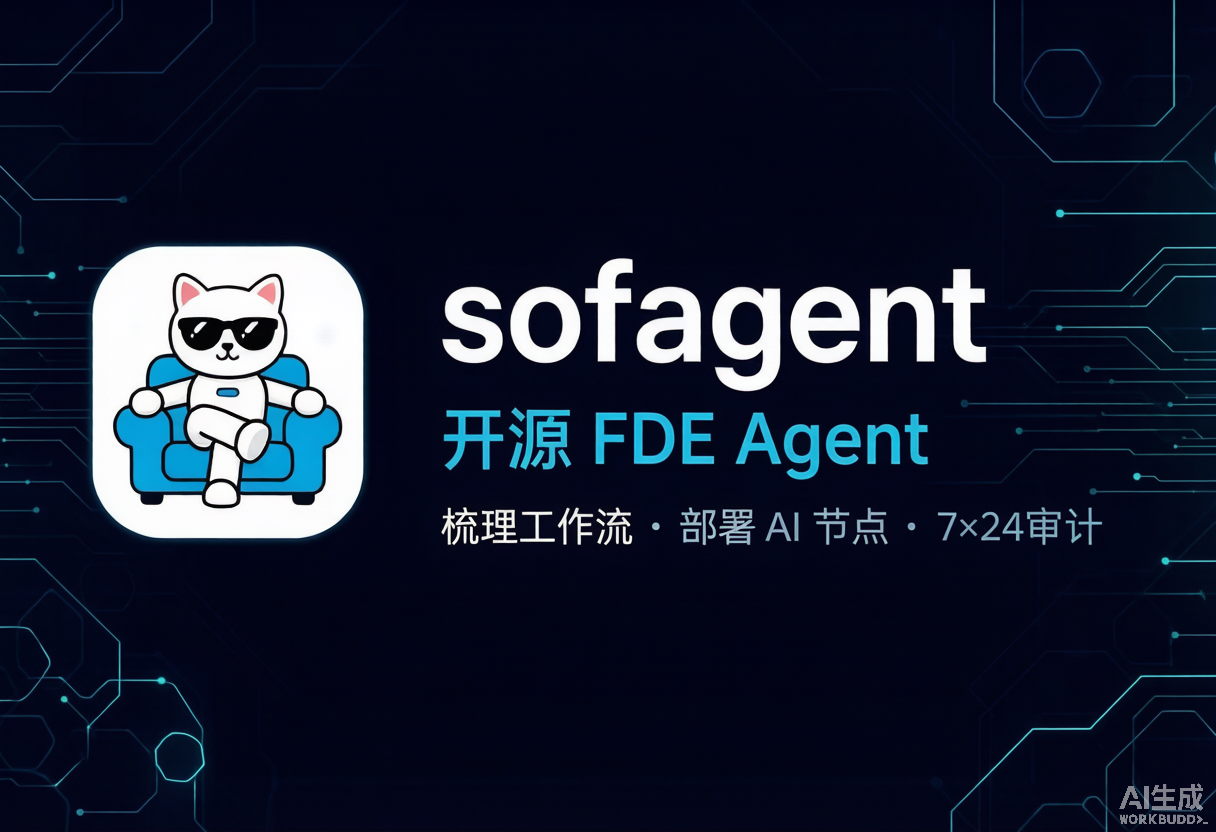
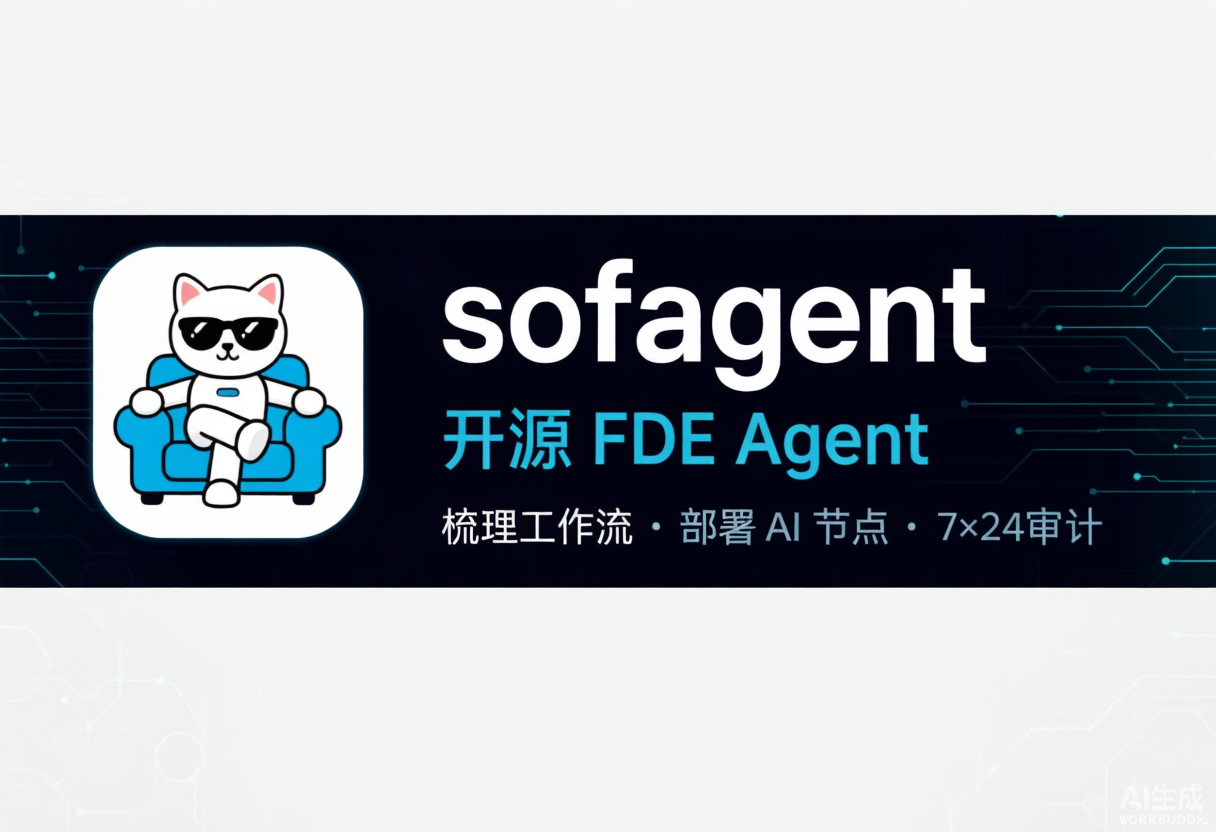
chore(hygiene): v1.4.0 前置卫生基线修复
- .gitignore: 补 FORGE/runs/ 防 loop 产物误收（backend-ab-v1.3.9.md 已跟踪保留）
- audit: --help 补 -y（npx 新手不再卡确认提示）；build + 857 测试全绿
- rules: index.ts 自述 5→21 公开符号 + Last revised 标注
- public-api.mjs: 新增文档声称符号数校验（根治 1449 漂移类问题）
- 文档 1449→1440 全仓 9 处对齐 baseline 实测
- 排 v1.3.9 悬空 6 处改写为移排 v1.4.7（G7 数据主权）
- CONTRIBUTING: 删 cp -r sofagent/ 残留，引用 releasing.md 十二阶段
- HANDBOOK: 根目录 .md 计数 6→8（补 AGENTS.md/GEMINI.md）
- ARCHITECTURE: 补约束层七维度节 + API 分级边界决策节
- README 双语: 企业警示/100+ 数据源/8+2 明细/agent-shield 呈现/三入口访问模型/badges 注释
- PHILOSOPHY: 补进化边界注（Dream Cycle 重启即丢）
- SECURITY: CI 示例补单 commit 仓库边界说明
- banner.png: 去 AI 生成工具水印（视觉复核待用户确认）

来源：fresh-eyes 16 视角独立审查 + V1.4.0-bugfix-prompt 交叉检查

diff --git a/engine/audit/src/index.ts b/engine/audit/src/index.ts
@@ -277,7 +277,7 @@ function parseArgs(argv: string[]): Args {
       console.log('快速开始:');
       console.log('  安装    npm install -g @sofagent/audit && sofagent-audit --init');
       console.log('  试用    sofagent-audit --diff HEAD~1..HEAD');
-      console.log('  npx     npx -p @sofagent/audit sofagent-audit --init');
+      console.log('  npx     npx -y -p @sofagent/audit sofagent-audit --init');
       console.log('命令:');
       console.log('  sofagent-audit --diff <range> [--task <desc>]   审计 git diff');
       console.log('  sofagent-audit --init                           一键初始化（配置+hook+冒烟）');

diff --git a/engine/rules/src/index.ts b/engine/rules/src/index.ts
@@ -6,7 +6,8 @@
 // ────────────────────────────────────────────────────────
 // ============================================================
 // index.ts · @sofagent/rules barrel export
-// v1.3.9：只导出 5 个公开符号，内部实现不外露
+// v1.3.9：导出 21 个公开符号（以 `node tools/check/public-api.mjs` AST 解析为准），内部实现不外露
+// Last revised: v1.3.9
 // ============================================================
 
 /* @public */ export { RulesEngine } from './engine';

diff --git a/docs/ROADMAP.md b/docs/ROADMAP.md
@@ -7,7 +7,7 @@
 
 ## 现在在哪：v1.3.9（已交付）
 
-> **v1.3.9 已于 2026-08-21 交付**——官方 AST 规则引擎（sofagent-ruleset-ast 含 ASI01/ASI04）+ meta-harness 多 harness 统一编排（DSH 形态对齐）+ AI 工作明细数据层（worklog + worklog_query MCP）+ API 分级 @public/@internal（1449 符号 + CI 门禁）+ FORGE driver 切 DSH（显式后端选择 + CLI 桥接 + bash 全权限）+ MLflow agent 评估 + Agentic Browser + 跨平台适配器（Cursor/Codex/Gemini）+ tools/ 物理分子目录 + ATTRIBUTION 归因引擎 + Dream Sandbox 沙盒审计 + >5MB diff 缝隙修复 + FORGE driver 进程守护（daemon + watcher）。详见 [v1.3.9 开发日志](./changelog/v1.3/v1.3.9.md)。
+> **v1.3.9 已于 2026-08-21 交付**——官方 AST 规则引擎（sofagent-ruleset-ast 含 ASI01/ASI04）+ meta-harness 多 harness 统一编排（DSH 形态对齐）+ AI 工作明细数据层（worklog + worklog_query MCP）+ API 分级 @public/@internal（1440 符号 + CI 门禁）+ FORGE driver 切 DSH（显式后端选择 + CLI 桥接 + bash 全权限）+ MLflow agent 评估 + Agentic Browser + 跨平台适配器（Cursor/Codex/Gemini）+ tools/ 物理分子目录 + ATTRIBUTION 归因引擎 + Dream Sandbox 沙盒审计 + >5MB diff 缝隙修复 + FORGE driver 进程守护（daemon + watcher）。详见 [v1.3.9 开发日志](./changelog/v1.3/v1.3.9.md)。
 >
 > **下一版 v1.4.0（规划中）**：Web 工作明细页 + 成本审计（超支告警 + `cost_query` MCP）+ DSH 反向插件家族（cordis-plugin-* 九件套）。详见下方「版本规划」表。
 >
@@ -27,7 +27,7 @@
 
 | 版本 | 核心交付 |
 |------|------|
-| **v1.3.9** | 🔍 官方 AST 规则引擎（sofagent-ruleset-ast 含 ASI01/ASI04 · 8+2 规则）+ 🧩 meta-harness 多 harness 统一编排（DSH 形态对齐）+ 📊 AI 工作明细数据层（worklog + worklog_query MCP）+ 🔬 API 分级 @public/@internal（1449 符号 + CI 门禁）+ ⚙ FORGE driver 切 DSH（显式后端选择 + CLI 桥接 + bash 全权限）+ 📈 MLflow agent 评估（13 指标 + LLM-as-Judge）+ 🌐 Agentic Browser（4 工具 + 视觉降级）+ 🧭 跨平台适配器（Cursor/Codex/Gemini CLI）+ 🗂 tools/ 物理分子目录 + 🏷 ATTRIBUTION 归因引擎 + 🏖 Dream Sandbox 沙盒审计 + 🩹 >5MB diff 缝隙修复（spill 落盘）+ 🔄 FORGE driver 进程守护（daemon + watcher）· 阶段五~八全流程（15 acceptance 场景补齐 + release-gate 三跑 PASS） |
+| **v1.3.9** | 🔍 官方 AST 规则引擎（sofagent-ruleset-ast 含 ASI01/ASI04 · 8+2 规则）+ 🧩 meta-harness 多 harness 统一编排（DSH 形态对齐）+ 📊 AI 工作明细数据层（worklog + worklog_query MCP）+ 🔬 API 分级 @public/@internal（1440 符号 + CI 门禁）+ ⚙ FORGE driver 切 DSH（显式后端选择 + CLI 桥接 + bash 全权限）+ 📈 MLflow agent 评估（13 指标 + LLM-as-Judge）+ 🌐 Agentic Browser（4 工具 + 视觉降级）+ 🧭 跨平台适配器（Cursor/Codex/Gemini CLI）+ 🗂 tools/ 物理分子目录 + 🏷 ATTRIBUTION 归因引擎 + 🏖 Dream Sandbox 沙盒审计 + 🩹 >5MB diff 缝隙修复（spill 落盘）+ 🔄 FORGE driver 进程守护（daemon + watcher）· 阶段五~八全流程（15 acceptance 场景补齐 + release-gate 三跑 PASS） |
 | **v1.3.8** | 🛡 代理网关硬边界（唯一出入口 + 风险分级 + 权限单调守卫 + HITL 审批队列激活）+ 🔐 数据静态加密（纯 TS AES-256-GCM + 密钥指纹强制备份）+ ⏸ Durable Execution L3（WAL 三态恢复 + undo 三档）+ 🤖 异步长任务自治（cron 三档糖 + 依赖图 + 死循环检测）+ ⚙ FORGE driver 保活三件套（pm2 / resume / liveness）+ 🧩 SDK sandbox:true 启用（三层沙箱）+ 🔻 release-gate 瘦身（--judgment-only + F 循环 FAIL 即停）+ 📊 fresh-eyes 成本重构（usage.jsonl + B 侧复核）+ 📸 快照写路径加固（revert 原子化）· bugfix 四 P0（A1 后缀绕过 / A2 FFFD / 安装链 / 声称断裂） |
 | **v1.3.7** | 🏰 SubAgent 完整沙箱（虚拟 FS / 网络白名单 / 工具中介 / 虚拟 key / 独立进程 / A-B 双跑）+ 🔐 场景驱动权限（身份→场景→风险→放行，fail-closed）+ 🛡 AgentShield 五类扫描（MCP 画像 / Hook 注入 / 配置审查 / 密钥增强 / Shadow AI 发现）+ 🏥 行业 overlay 四套（fintech/medical/government/ai）+ ⚡ 断路器行为监控（ASI08 熔断 + ASI10 隔离）+ 🌳 ontology 生命周期（branch/trunk + migrateToTrunk 审阅门 + OKF 三件套）+ ⚙ FORGE 审查循环自适应并发 + 🔌 memory-sync 路径通用化 + 26 项独立审查 bugfix |
 | **v1.3.6** | 🔌 引擎接口外化完整版（模型层接入前置）：📥 三个数据接口（Workflow 标准格式 + 运行容器 + merge_criteria/approver 审阅协议字段 / Ontology 标准 Schema 注册 D1-D5 留痕 / 模型注册 + 灰度切换全流程审计 + 强制人审）+ 🧩 SubAgent 托管 SDK（harness.wrap 双形态兼容）+ 🏋 训练协议三约定 + 预算控制（自 v1.4.1 前移）+ 🧭 路由决策可解释性（EndpointProfile + route-policy + routeReason 结构化理由链）+ ✅ 机器可判定验收（define_acceptance / check_acceptance，复用 Benchmark 判定引擎）+ 🛡 可靠性五件（FORGE worktree 隔离根治 run-07 / 双闸验证 postToolCall 副作用复查 / Agent 疲劳度检测 / 分级降级梯队 / decisions.jsonl 五分类完整版）+ 🌳 仓库森林叙事升级 · MCP 52→60 tools（8 个新 tool 全登记） |
@@ -86,14 +86,14 @@ sofagent 的定位正卡在这个转折点上：审计引擎（治理侧）+ Ont
 | 版本 | 状态 | 核心交付 | 日志 |
 |------|:--:|------|:--:|
 | **v1.3.6** | ✅ 已交付 | **🔌 引擎接口外化完整版（模型层接入前置 · 原 v2.0 前移）**：① Workflow 标准格式 + 运行容器（JSON Schema + MCP `workflow_submit`；**+ 审阅协议字段 `merge_criteria`/`approver`——workflow 从「步骤列表」升级为「变更提案的审阅协议」，审计引擎即 merge_criteria 执行器，GitHub 式协作底座，2026-08-16 新增**）② Ontology 注册接口（MCP `ontology_import` + D1-D5 审计）③ **SubAgent 托管 SDK**（`harness.wrap` 包装 LangGraph 自定义 Agent → 自动获得审计/审批/身份/Trace，createReactAgent + 纯 StateGraph 双形态——模型层 sub-agent 托管的落点）④ **模型注册 + 灰度切换**（`model_register` / `model_switch`，评测 → 注册 → 灰度 → 晋升全流程审计 + 强制人审；`source: 'local-path'` 扩展位预留，企业专属模型本地权重部署在 v1.4.1 填充；**通用模型路由不自研——企业挂第三方 model router（LiteLLM/OpenRouter），sofagent 只保留数据主权路由 + 注册/灰度/退役，2026-08-10 补充**）⑤ **训练协议三约定 + 训练预算控制（自 v1.4.1 前移，2026-08-12）**——双栈架构契约（Node 控制面 spawn Python + stdout JSON 流 + SIGINT 控制）+ 成本透明（超预算暂停 + 人审），让企业专属模型早期试点客户更早接入 ⑥ **路由决策可解释性（role-model 启发，2026-08-13 新增）**——补 Profiles 半个（端点能力画像）+ Policy 半个（偏好/预算/决胜规则）+ routeReason 结构化决策字段，**不自研路由器只补决策可审计性** ⑦ **运维闭环增强四件（自 v1.3.5 移入 2026-08-15：双闸验证 postToolCall 副作用复查 / Agent 疲劳度检测 / 分级降级梯队 full→rules-only→minimal→safe-stop / decisions.jsonl 完整版）** + **DSH 正向执行后端补全（2026-08-14 新增）**——v1.3.4 已交付接口骨架 + 版本守卫（rc 拦截），本版补全：`runCordisAgent()` 对照 @deepseek-ai/dsh 正式版 Cordis API 重写 + `dag-runner`/`composer`/`loop/nodes`/`node-executor` 剩余调用点迁移到 ExecutionBackend + 正式版发布后版本守卫放开（**契约依据已就绪：DSH 官方 cordis-tutorial 七章已发布——apply(ctx)/事件域/工具流水线/插件三形态，重写不再猜测 API；工具格式转换对照官方 ToolDefinition 三段式**，2026-08-15 教程全量蒸馏确认；**+ Trajectory 信号采集 PoC 与节点级审计可行性实测**——订阅事件流落 JSON 验证 reward 样本格式（商业模型层 B' 路径起点）+ 24 条规则逐条判定节点链适配性，产出 v1.4.0 plugin 节点级审计交付范围依据，2026-08-15 补充；**+ 验收 MCP tool 先行版（`define_acceptance` / `check_acceptance`——复用 Benchmark 判定引擎，任何 MCP 宿主可调，DSH 经 v1.3.5 互通即得软约束验收，v1.4.0 plugin 再硬化，收敛鸿沟直接解，2026-08-16 补充）** + **双后端镜像验证（DSH 后端跑通后同一 workflow 在 LangGraph / DSH 双后端执行，Trajectory 过程视角 + git diff 结果视角对比一致 = ExecutionBackend 抽象正确性实证，2026-08-16 补充）**）。**依赖：DSH 正式版发布（当前 rc.6）**——rc 期间版本守卫继续拦截，不阻塞 v1.3.6 其他交付项 ——**训练语料导出三件套已移至 v1.4.1 训练引擎**（2026-08-10 决策已定：训练相关内容统一从 v1.4.x 开始） + **🔧 FORGE 隔离加固（2026-08-16 新增 · 四件：fresh-eyes/release-gate 双 driver git worktree 隔离 + worker-alive 戳 + 启动前独占窗口检查 + LEDGER 中止归档 SOP——run-07 两次进程死亡与 worker 测试残留污染主仓的直接修复，四件全做；其中 worker-alive 戳/独占窗口检查/LEDGER SOP 三件已落地，本版实际开发 = worktree 隔离 + worker-alive 戳 release-gate 侧镜像补全）** | [日志](./changelog/v1.3/v1.3.6.md) |
-| **v1.4.0** | 📋 规划中 | **📊 Web 工作明细页 + 💰 成本审计 + 🔌 DSH 反向插件（企业 AI 工作记录视图 · 版本号重新启用）**：`dashboard.html` 加「工作明细」区块（按 Agent/按 Workflow/按周 + 人工介入记录，读 v1.3.9 落盘的 `worklog.json`，降级示例对齐现有模式）+ **成本审计维度**（WARN only 不拦截——超支告警 + `cost_query` MCP tool + COST DecisionKind，ccteam 启发；v1.3.9 worklog 已采集成本数据，本版补"超支判定 + 告警"这把刀）+ **DSH 反向插件适配（plugin 家族 · 2026-08-16 单点改家族）**（把 sofagent @public API 包装成**一族独立 Cordis 插件**——`cordis-plugin-audit`（审阅门：机器审阅 24 规则 + 节点级审计）/ `cordis-plugin-rollback`（剪枝：effect disposer）/ `cordis-plugin-inject`（约束：apply(ctx) 注入四层加载链）/ `cordis-plugin-evolve`（进化：think.md 反思 + Dream Cycle 蒸馏 + skillopt 优化）/ `cordis-plugin-ontology`（地图：共享语义底座）/ `cordis-plugin-commons`（公地：能力五环，复用 v1.3.4 六能力公地 tool，v1.3.6 起 market_* 更名 commons_*）/ `cordis-plugin-gate`（合并标准：turn-stopping 硬门禁）/ `cordis-plugin-daemon`（养护：7×24 巡检 + 健康监测）/ `cordis-plugin-fde`（攻面：fde_interview/classify/quantify 三 tool），每个插件干一件事、可独立安装渐进采用——攻守一体 + 四能力闭环 + 仓库森林四要素 + 公地生态层 = 一个 FDE；协作底座是涌现不是构建，plugin 挂进 DSH 后生态自动获得「仓库森林」运转机制——依赖链：v1.3.6 ExecutionBackend 接口 → v1.3.9 API 分级 @public → 本版插件包装；DSH 正式版已发布的 Cordis 插件协议对照，2026-08-14 明确；**seam 选型已按官方文档精确化：审计挂 `tools/result`（官方钦定审计入口，观察不可变权威结果）+ `tools/pre-execute`（拒绝/放行策略）+ `fs/write-intent`（文件门禁）；审批留痕走 log-only 会话事件不进模型 surface；仓库打 `dsh-plugin` GitHub topic 占生态位；**插件含节点级审计 v1**——适配节点链的规则子集（范围由 v1.3.6 实测结论定）扩展为 tool 调用级归因 + pre-execute 拒绝留痕，2026-08-15 落位；**审批应答者**——sofagent 审批引擎注册进 DSH approval 应答者链（企业一个审批队列管所有 Agent）；**回溯 Cordis 语义化**——git snapshot 实现为 effect disposer（卸载即逆序撤销）；**验收硬门禁——挂 `agent/turn-stopping` 拦截关轮（验收不过不放行 + 失败原因注入 + maxGoalRounds 防刷轮），v1.3.6 软约束 tool 的 plugin 硬化，收敛鸿沟的工程解**，2026-08-15/16 补充）——Dashboard Web 前端已就绪（dashboard.html 6 页 + serve-dashboard.mjs），v1.3.9 已承载 AST + meta 两个大交付，Web 页 + 成本审计 + DSH 插件同版交付 | [日志](./changelog/v1.4/v1.4.0.md) |
+| **v1.4.0** | 📋 规划中 | **📊 Web 工作明细页 + 💰 成本审计 + 🔌 DSH 反向插件（企业 AI 工作记录视图 · 版本号重新启用）**：`dashboard.html` 加「工作明细」区块（按 Agent/按 Workflow/按周 + 人工介入记录，读 v1.3.9 落盘的 `worklog.json`，降级示例对齐现有模式）+ **成本审计维度**（WARN only 不拦截——超支告警 + `cost_query` MCP tool + COST DecisionKind，ccteam 启发；v1.3.9 worklog 已采集成本数据，本版补"超支判定 + 告警"这把刀）+ **DSH 反向插件适配（plugin 家族 · 2026-08-16 单点改家族）**（把 sofagent @public API 包装成**一族独立 Cordis 插件**——`cordis-plugin-audit`（审阅门：机器审阅 24 规则 + 节点级审计）/ `cordis-plugin-rollback`（剪枝：effect disposer）/ `cordis-plugin-inject`（约束：apply(ctx) 注入四层加载链）/ `cordis-plugin-evolve`（进化：think.md 反思 + Dream Cycle 蒸馏 + skillopt 优化）/ `cordis-plugin-ontology`（地图：共享语义底座）/ `cordis-plugin-commons`（公地：能力五环，复用 v1.3.4 六能力公地 tool，v1.3.6 起 market_* 更名 commons_*）/ `cordis-plugin-gate`（合并标准：turn-stopping 硬门禁）/ `cordis-plugin-daemon`（养护：7×24 巡检 + 健康监测）/ `cordis-plugin-fde`（攻面：fde_interview/classify/quantify/derive/distill/deploy 六 tool），每个插件干一件事、可独立安装渐进采用——攻守一体 + 四能力闭环 + 仓库森林四要素 + 公地生态层 = 一个 FDE；协作底座是涌现不是构建，plugin 挂进 DSH 后生态自动获得「仓库森林」运转机制——依赖链：v1.3.6 ExecutionBackend 接口 → v1.3.9 API 分级 @public → 本版插件包装；DSH 正式版已发布的 Cordis 插件协议对照，2026-08-14 明确；**seam 选型已按官方文档精确化：审计挂 `tools/result`（官方钦定审计入口，观察不可变权威结果）+ `tools/pre-execute`（拒绝/放行策略）+ `fs/write-intent`（文件门禁）；审批留痕走 log-only 会话事件不进模型 surface；仓库打 `dsh-plugin` GitHub topic 占生态位；**插件含节点级审计 v1**——适配节点链的规则子集（范围由 v1.3.6 实测结论定）扩展为 tool 调用级归因 + pre-execute 拒绝留痕，2026-08-15 落位；**审批应答者**——sofagent 审批引擎注册进 DSH approval 应答者链（企业一个审批队列管所有 Agent）；**回溯 Cordis 语义化**——git snapshot 实现为 effect disposer（卸载即逆序撤销）；**验收硬门禁——挂 `agent/turn-stopping` 拦截关轮（验收不过不放行 + 失败原因注入 + maxGoalRounds 防刷轮），v1.3.6 软约束 tool 的 plugin 硬化，收敛鸿沟的工程解**，2026-08-15/16 补充）——Dashboard Web 前端已就绪（dashboard.html 6 页 + serve-dashboard.mjs），v1.3.9 已承载 AST + meta 两个大交付，Web 页 + 成本审计 + DSH 插件同版交付 | [日志](./changelog/v1.4/v1.4.0.md) |
 | **v1.4.1** | 📋 规划中 | **🚀 训练引擎 · 地基（编排 + 审计 + 隔离 + 指纹 + 签名 + 回收 + 恢复 + 安全）**：① **train-job 编排层** ② **train_job 审计** ③ **训练隔离边界**（enterpriseId 全链路）④ **训练可复现指纹**（checkpoint 续跑版本锁定）⑤ **训练产物完整性校验**（权重 HMAC）⑥ **训练中断与资源回收**（心跳+孤儿巡检+GPU 泄漏检测）⑦ **引擎崩溃恢复**（假活任务清理+三选项恢复）⑧ **训练安全基线**（路径注入/沙箱自检/凭据脱敏+攻击面声明文档）——**训练协议三约定 + 训练预算控制已前移至 v1.3.6（2026-08-12）** | [日志](./changelog/v1.4/v1.4.1.md) |
 | **v1.4.2** | 📋 规划中 | **🚀 训练引擎 · 数据与评估（管道 + 版本 + eval + 环境 + dry-run + 报告）**：① **企业数据 → 训练集管道**（CSV/Excel/**DB/API** 多源异构接入 + instruction/偏好对构建 + 质量闸门 + 训练入口脱敏）② **训练集版本管理**（dataset_version，eval 引用版本可复现）③ **训练中 eval 闭环**（复用 v1.3.1 Benchmark，阈值外部化——机制开源/阈值外部化）④ **训练环境管理**（train env init + train doctor + **基座模型下载管理** + 环境版本清单）⑤ **训练 dry-run 与配置预检**（train dry-run：极小数据集跑通管线 + 显存预检 + 数据抽样检查——失败前预防，与 v1.4.3 diagnose 互补）⑥ **训练报告**（train report：客户可读交付物 + 量化四字段，绩效量化引擎输入） | [日志](./changelog/v1.4/v1.4.2.md) |
 | **v1.4.3** | 📋 规划中 | **🚀 训练引擎 · 运行与需求（监控 + 诊断 + 沙箱 + 推导 + 模板 + workflow + 可观测）**：① **训练监控与 GPU 队列**（train_status + **train_list** + 显存预算排队 + webhook + **Dashboard 训练区块 + 健康度指标落盘**）② **训练失败诊断**（OOM/数据/发散/框架/环境五类）③ **训练沙箱 + 设备打包**（扩展 v1.3.7 + 离线 + 设备封装前置）④ **训练需求推导 + 模板库**（`train analyze` + 场景模板）⑤ **后训练 workflow 模板**（七节点 FDE 载体 + 三 HITL） | [日志](./changelog/v1.4/v1.4.3.md) |
 | **v1.4.4** | 📋 规划中 | **🚀 训练引擎 · 信号与部署闭环（语料 + 权重 + 注册 + 对比）**：① **训练语料导出三件套**（规则 + GUIDE 方法论 + 样本四源 [decision-log/llm-calls/evaluation-log/runtime-audit] + Trace 轨迹 + 通用脱敏管线 + HMAC 签名 + 合规红线——含 human-fde 人工基准，从 v1.3.2/v1.3.6 归集）② **企业专属模型本地权重部署链路**（权重目录规范 + 本地加载 + 版本回滚，从 v1.3.6 归集）③ **训练产物 → 模型注册自动衔接**（train done + eval pass → model_register，闭环最后一步）④ **多基座对比训练**（train compare：同数据多基座并行 + ROI 排序，阶段 2 选型前置） | [日志](./changelog/v1.4/v1.4.4.md) |
 | **v1.4.5** | 📋 规划中 | **🚀 训练引擎 · 服务与持续（推理服务 + 持续后训练 + 合规扫描 + 交付包 + 归档 + quickstart · 生命周期补全）**：① **训练推理服务**（train serve + 健康检查 + model_switch 联动）② **持续后训练**（数据回流 + 阈值/定时/人工触发 + 回退保护）③ **训练数据合规扫描**（PII/敏感字段 + 合规闸门）④ **FDE 训练交付包**（配置+数据+eval 基线+运维手册+权重清单）⑤ **训练产物归档与保留策略**（train-retention + @weekly 归档 + 90 天销毁 + 空间预警）⑥ **训练引擎 Quickstart**（端到端示例文档 + 合成数据 + 最小 job.json） | [日志](./changelog/v1.4/v1.4.5.md) |
 | **v1.4.6** | 📋 规划中 | **🚀 训练引擎 · 分布式与云端（多卡 + 云 VM 执行面 · 规模化前置）**：① **多卡/分布式训练**（train multi：多卡/多机配置 + verl/DeepSpeed 集群 spawn + GPU 队列多卡拓扑感知 + 分布式失败诊断）② **云端 VM 执行面**（train cloud：Node 控制面本地 + Python 执行面云上——ssh/API 远程 spawn + 数据加密上传/训练后清理 + 云端成本入预算——「全托管」交付模式技术底座；⚠ 敏感数据不上公有云，走客户机房联合训练） | [日志](./changelog/v1.4/v1.4.6.md) |
-| **v1.4.7** | 📋 规划中 | **🔌 商业平台 平台接口版（商业产品层前置 · 2026-08-17 新增）**：承载 商业平台 平台接口规划 §9.1 中未覆盖项——**G2 能力缺口查询**（MCP `workflow_gaps`——读 workflow 状态找「缺人/缺能力的节点」，悬赏式 PR 的发现接口，依赖 v1.3.9 worklog + v1.3.7 ontology lifecycle）· **G4 绩效数据导出**（MCP `contribution_query`——读审计 + decision-log 算每人/每 workflow 贡献度，DKP 价值轨数据源，对齐 v1.4.5 FDE 训练交付包的量化四字段）· **G6 节点级可见性元数据**（workflow schema 加 `visibility` 字段 open/private/result-only——任务面/数据面分离，审阅门按此执行）· **G7 多租户抽象层 v0**（引擎数据路径 `data/<tenant>/` 命名空间——先做数据路径抽象，隔离策略随 SaaS 需要细化；动引擎内核，v1.4.6 云 VM 执行面后评估。**共享执行层隔离刚需 · 2026-08-20 强化**：社区私有化部署 DSH 实践（两篇，2026-08-19）验证「企业共享 Agent」是真实需求，且共同缺口 = 多账号/权限/数据隔离——G7 正是补「隔离」的引擎侧底座（数据路径抽象是第一步，按用户隔离工作区/知识库随后细化））· **workflow 烧进 USB**（FDE 交付物理载体 · 2026-08-19 新增：`create-usb-key` 产物清单扩展——烧入 workflow 定义 + 依赖 skill/tool 注册 + 节点配置，插上即是一个会跑企业具体业务流程的节点，与 商业平台 在线交付互补；依赖 fde_deploy v1.4.0 + DSH 执行后端，升级 v1.1.9「只烧引擎+知识」为「烧引擎+知识+workflow」）· **审计留痕双层（2026-08-22 排入 · Codex rollout-trace 启发）**——history.jsonl 读取端拆独立规约层（raw append-only 写路径不动），与审计存储 SQLite 迁移评估同批 | [日志](./changelog/v1.4/v1.4.7.md) |
+| **v1.4.7** | 📋 规划中 | **🔌 商业平台 平台接口版（商业产品层前置 · 2026-08-17 新增）**：承载 商业平台 平台接口规划 §9.1 中未覆盖项——**G2 能力缺口查询**（MCP `workflow_gaps`——读 workflow 状态找「缺人/缺能力的节点」，悬赏式 PR 的发现接口，依赖 v1.3.9 worklog + v1.3.7 ontology lifecycle）· **G4 绩效数据导出**（MCP `contribution_query`——读审计 + decision-log 算每人/每 workflow 贡献度，DKP 价值轨数据源，对齐 v1.4.5 FDE 训练交付包的量化四字段）· **G6 节点级可见性元数据**（workflow schema 加 `visibility` 字段 open/private/result-only——任务面/数据面分离，审阅门按此执行）· **G7 多租户抽象层 v0**（引擎数据路径 `data/<tenant>/` 命名空间——先做数据路径抽象，隔离策略随 SaaS 需要细化；动引擎内核，v1.4.6 云 VM 执行面后评估。**共享执行层隔离刚需 · 2026-08-20 强化**：社区私有化部署 DSH 实践（两篇，2026-08-19）验证「企业共享 Agent」是真实需求，且共同缺口 = 多账号/权限/数据隔离——G7 正是补「隔离」的引擎侧底座（数据路径抽象是第一步，按用户隔离工作区/知识库随后细化））· **workflow 烧进 USB**（FDE 交付物理载体 · 2026-08-19 新增：`create-usb-key` 产物清单扩展——烧入 workflow 定义 + 依赖 skill/tool 注册 + 节点配置，插上即是一个会跑企业具体业务流程的节点，与 商业平台 在线交付互补；依赖 fde_deploy v1.4.0 + DSH 执行后端，升级 v1.1.9「只烧引擎+知识」为「烧引擎+知识+workflow」）· **审计留痕双层（2026-08-22 排入 · Codex rollout-trace 启发）**——history.jsonl 读取端拆独立规约层（raw append-only 写路径不动），与审计存储 SQLite 迁移评估同批 · **静态加密全量接线 + 引擎侧 data-sovereignty repo-hash 隔离（2026-08-22 从 v1.3.9 未兑现项移排）**——forge-runs/checkpoint/model-registry 三目录 + task/logs + think.md 加密接线，复用 FORGE 方案补齐引擎侧 `data/audit/data-sovereignty/<repo-hash>/` 隔离（原排 v1.3.9 未交付，与 G7 数据主权主题同源，并入本版） | [日志](./changelog/v1.4/v1.4.7.md) |
 | **v1.4.8** | 📋 规划中 | **🔌 插件分发企业管控（2026-08-22 新增 · Codex marketplace 启发）**：插件来源白名单（Git URL / 主机模式 / 本地路径三类，对齐 Codex MarketplaceAllowedSource）+ 托管 hook 独裁模式（`allow_managed_hooks_only` 等价物，企业部署忽略用户自定义 hook 只跑 sofagent 托管审计 hook）——管控同时覆盖 ClawHub（OpenClaw plugin 家族）+ SkillHub（DSH plugin 家族），判断在安装侧生效。**依赖 v1.4.0 三 plugin 家族交付** | [日志](./changelog/v1.4/v1.4.8.md) |
 
 

diff --git a/README.en.md b/README.en.md
@@ -5,6 +5,7 @@
 <p align="center">
   <a href="https://github.com/KongFangXun/sofagent/actions/workflows/verify.yml"><img src="https://github.com/KongFangXun/sofagent/actions/workflows/verify.yml/badge.svg" alt="Verify" /></a>
   <a href="./LICENSE"><img src="https://img.shields.io/badge/License-MIT-brightgreen" alt="License: MIT" /></a>
+  <!-- ⚠ bump version: manually sync this badge version (Version-vX.Y.Z) -->
   <a href="./CHANGELOG.md"><img src="https://img.shields.io/badge/Version-v1.3.9-16B8F3" alt="Version" /></a>
 </p>
 
@@ -42,7 +43,7 @@ graph LR
 
 > ℹ The comparison dimensions are based on capability differences, not aimed at any specific product; general-purpose scanners/frameworks (pre-commit / gitleaks / detect-secrets, etc.) complement sofagent rather than oppose it.
 
-> ℹ **Honest boundary**: general-purpose secret scanners (gitleaks / detect-secrets) do **full-history scans** with broader pattern libraries (100+ patterns); sofagent auditing focuses on **hard evidence from the current diff + Agent behavior auditing** (out-of-scope/injection/privilege dimensions scanners don't cover). They complement rather than replace each other — for strict secret-compliance scenarios, use both.
+> ℹ **Honest boundary**: general-purpose secret scanners ([gitleaks](https://github.com/gitleaks/gitleaks) / detect-secrets) do **full-history scans** with broader pattern libraries ([gitleaks official pattern library, 100+ rules](https://github.com/gitleaks/gitleaks/tree/master/config)); sofagent auditing focuses on **hard evidence from the current diff + Agent behavior auditing** (out-of-scope/injection/privilege dimensions scanners don't cover). They complement rather than replace each other — for strict secret-compliance scenarios, use both.
 >
 > ⚠ **Honest boundary**: currently a single-machine, single-user design — multiple Agents share one knowledge base / audit history; multi-person / multi-department sharing requires tenant isolation (ROADMAP v1.4.7 G7). Task logs (task/logs) are written in plaintext, containing task summaries / code snippets / API response summaries / conversation summaries — static encryption currently covers the audit history main chain, not task/logs; read [SECURITY](./SECURITY.md) before enterprise deployment.
 
@@ -58,9 +59,12 @@ graph LR
 
 - 🔍 **Zero-setup audit** — `npx -y -p @sofagent/audit sofagent-audit`, audits your last commit in any git repo in seconds (measured on: Apple Silicon macOS, warm cache — ~1.1s per quick run, ~6.1s for a 50k-line diff; single-machine reference figures, not benchmarks; first npx download takes ~30s)
 - 🧱 **24 audit rules** (quick runs 17 by default out of the box; the full 24 = 17 default + 7 extensions enabled via config, requiring `--init` to install hooks and enter the full engine) — secret leaks, out-of-scope edits, injection defense, privilege red lines — judged on hard git diff evidence, violations blocked on the spot
+- 🛡 **AgentShield five-face config scanner** (since v1.3.7, deterministic static analysis · zero LLM self-eval) — statically scans five faces: MCP risk (mcp-risk) / hook injection (hook-injection) / Agent config (agent-config) / enhanced secrets (secret-enhanced) / shadow AI (shadow-ai), complementing the 24 git-diff rules (see [SECURITY](./SECURITY.md))
 - 🛡 **Automatic snapshot & rollback** — auto-archived after every audit, one-click restore to any snapshot
 
 ## Quick Start
+
+> ⚠ **Enterprise users read first** [LIMITATIONS §3](./docs/LIMITATIONS.md) — `config.yml` is **non-fail-closed by default** (rules can be bypassed by Agent tampering), and multi-tenant isolation is not yet landed. For strict-compliance scenarios use CI fallback + file-permission lock (`chmod 444 .sofagent/config.yml`); do not put the single-machine default config directly into production.
 
 **30 seconds, zero setup** — run an audit in any git repo (dev/testing scenarios; for strong-compliance scenarios read [LIMITATIONS §3](./docs/LIMITATIONS.md) first — plaintext storage and multi-tenant isolation are known limitations):
 
@@ -163,6 +167,14 @@ graph LR
 | **GitHub Action** | Auto-audit every PR, violations annotated on the diff lines | CI/CD | Set up once |
 | **install.sh full suite** | injection · audit · rollback · evolution + daemon inspection + dashboard — the Agent's complete constraint layer | **Enterprise device** (server/computer running the AI nodes) | FDE residency |
 
+**Access-model comparison** (same engine, three install granularities — pick by scenario):
+
+| Access model | Command | Lifecycle | Best for |
+|--------------|---------|-----------|----------|
+| npx temporary | `npx -y -p @sofagent/audit sofagent-audit` | use-and-go, downloaded each time | quick audit of any repo, one-off checks outside CI |
+| npm install (in-project) | `npm install @sofagent/audit` (project devDependency) | installed with project, version locked in package-lock | team projects with fixed deps, reproducible audits |
+| npm install -g (global) | `npm install -g @sofagent/audit` | globally available, install once call many | daily audit across local repos, daemon residency |
+
 sofagent supports composable rulesets (**rule marketplace**) — a built-in security ruleset plus community-published ruleset packages. With 24 audit rules built in (quick runs 17 by default, the 7 extensions enabled via config), loading extra rulesets extends audit coverage:
 
 **Rule marketplace**:
@@ -182,10 +194,10 @@ Community rulesets are published as `sofagent-ruleset-*` npm packages and loaded
 ## New in v1.3.9
 
 > 🔍 **v1.3.9 new capabilities** (official AST rule engine + meta-harness unified orchestration + AI worklog data layer + API tiering governance + FORGE on DSH + MLflow evaluation + Agentic Browser + cross-platform adapters + toolchain subdirectories + attribution/sandbox/daemon):
-> - **Official AST rule engine**: 🔍 `sofagent-ruleset-ast` semantic rule engine (ASI01 target hijacking + ASI04 supply-chain SBOM · 8+2 rule checks, same pipeline as the v1.2.9 plugin)
+> - **Official AST rule engine**: 🔍 `sofagent-ruleset-ast` semantic rule engine (8+2 rule checks = 8 general semantic rules "no dynamic code execution / hardcoded secrets / dynamic require / debugger / child_process shell control / SQL concatenation / http plaintext endpoint / empty catch" + 2 OWASP "ASI01 target hijacking + ASI04 supply-chain SBOM", same pipeline as the v1.2.9 plugin)
 > - **meta-harness unified orchestration**: 🧩 multi-harness policy enforcement at the infrastructure layer + cross-session collaboration (19 tests + DSH shape alignment)
 > - **AI worklog data layer**: 📊 `worklog` — by Agent / Workflow / week + human-intervention records (reuses audit + decision-log + LLM Trace, zero new data) + `worklog_query` MCP
-> - **API tiering governance**: 🔬 explicit `@public`/`@internal` tiers (1449 symbols) + CI gate baseline — breaking changes to `@internal` never affect adapters
+> - **API tiering governance**: 🔬 explicit `@public`/`@internal` tiers (1440 symbols) + CI gate baseline — breaking changes to `@internal` never affect adapters
 > - **FORGE driver on DSH**: ⚙ explicit backend selection (`SOFAGENT_FORCE_DSH` enable + CLI bridge + full bash permission) — execution backend switchable from LangGraph to DSH
 > - **MLflow agent evaluation**: 📈 13 metrics + LLM-as-Judge integration
 > - **Agentic Browser**: 🌐 4 tools (navigate/click/form/screenshot) + visual degradation fallback

diff --git a/docs/LIMITATIONS.md b/docs/LIMITATIONS.md
@@ -32,7 +32,7 @@
 | 1 | **单包测试需先 build**——monorepo 未 build 时单包 `npm test` 可能失败（依赖 dist/），需先 `npm run build --workspaces`。 | [四、成熟度与测试局限](#四成熟度与测试局限) |
 | 2 | **默认非 fail-closed**——config.yml 可被 Agent 篡改绕过审计规则。仅当 config 解析失败时走 safeDefaults（fail-closed 强制启用）。 | [三、安全与信任模型局限](#三安全与信任模型局限) |
 | 3 | **编排能力依赖 orchestrator 包 + 模型质量**——LangGraph createReactAgent 驱动，编排效果依赖模型质量。模型降级 → 编排降级。 | [五、审计与工程局限 → 编排引擎稳定性](#五审计与工程局限) |
-| 4 | **静态加密覆盖不全**——审计历史主链已加密（v1.3.8 交付，纯 TS AES-256-GCM），但 forge-runs/checkpoint/model-registry 三目录的加密接线排 v1.3.9，全量数据仍未全覆盖。 | [三、安全与信任模型局限 → 数据存储安全](#三安全与信任模型局限) |
+| 4 | **静态加密覆盖不全**——审计历史主链已加密（v1.3.8 交付，纯 TS AES-256-GCM），但 forge-runs/checkpoint/model-registry 三目录 + task/logs + think.md 的加密接线**未交付（原声称排 v1.3.9 未兑现），已移排 v1.4.7（G7 数据主权主题）**，全量数据仍未全覆盖。 | [三、安全与信任模型局限 → 数据存储安全](#三安全与信任模型局限) |
 | 5 | **单平台场景可能过重**——只用单一 Agent 平台且接受云端审计的用户，平台内置治理比 sofagent 更顺滑。sofagent 的价值在多供应商混用 + 本地留证场景。 | [二、平台与兼容性局限 → 单平台场景](#单平台用户建议) |
 
 > ✅ **已解决的历史问题**（v1.3.2 移出 Key Limitations，不再计入当前边界）：
@@ -203,13 +203,13 @@ sofagent 跑在单个 Agent 里——没有 agent-to-agent 通信，没有多实
 
 ### 🔒 数据存储安全
 
-> ℹ **审计历史全局共享是设计决策**：审计历史（`history.jsonl` / `decision-log.jsonl`）写入全局 `~/.sofagent/data/audit/`，不做项目级隔离——这是**有意为之**：① HMAC 签名链完整性要求全量连续历史（`--verify-chain` 需要完整链）；② 跨仓库查询审计历史是运维刚需。多项目场景下审计记录会混合存储。**运行时审计日志（`runtime-audit.jsonl`）在 FORGE 自托管 SubAgent 路径已按 git 仓库隔离（`data/audit/runtime/<repo-hash>/`）；引擎侧 data-sovereignty 审计日志仍全局，排 v1.3.9**；审计历史保持全局。**临时方案**：使用 `SOFAGENT_HOME` 环境变量为不同项目/Agent 隔离数据目录。
+> ℹ **审计历史全局共享是设计决策**：审计历史（`history.jsonl` / `decision-log.jsonl`）写入全局 `~/.sofagent/data/audit/`，不做项目级隔离——这是**有意为之**：① HMAC 签名链完整性要求全量连续历史（`--verify-chain` 需要完整链）；② 跨仓库查询审计历史是运维刚需。多项目场景下审计记录会混合存储。**运行时审计日志（`runtime-audit.jsonl`）在 FORGE 自托管 SubAgent 路径已按 git 仓库隔离（`data/audit/runtime/<repo-hash>/`）；引擎侧 data-sovereignty 审计日志仍全局（原声称排 v1.3.9 未兑现，已移排 v1.4.7 复用 FORGE 方案补齐 repo-hash 隔离）**；审计历史保持全局。**临时方案**：使用 `SOFAGENT_HOME` 环境变量为不同项目/Agent 隔离数据目录。
 
 > ⚠ **知识库同样全局共享（当前单机单用户设计）**：`~/.sofagent/data/knowledge/` 单目录遍历、无租户/项目维度隔离——多项目、多 Agent 的知识沉淀（entities/concepts/comparisons/summaries）混合存储，查询时全局命中。财务与人事等不同域 Agent 的数据会串。**当前定位为单机单用户**：多 Agent 共享同一知识库/审计历史——多人/多部门共用需等租户隔离（ROADMAP v1.4.7 G7 多租户抽象层 v0）。**临时方案**：使用 `SOFAGENT_HOME` 环境变量为不同项目/Agent 隔离数据目录（见 [企业部署指南](./guides/enterprise-deploy.md#多项目数据隔离v128)）。
 
 > ⚠ **`.sofagent/.git-shadow/` 在被审计仓库内创建**：sofagent 审计时会在被审计的 git 仓库根目录创建 `.sofagent/.git-shadow/` 目录存放审计快照——设计意图是按 git 仓库隔离快照（不同仓库的快照不能串，否则回溯到错误仓库）。快照内容**已 sanitize 脱敏**（API key / 密码 / 手机号打码，v1.3.4 起），位于仓库内便于 git worktree 隔离。经 `--init` 或 `--install-hook` 安装时，自动写入 .gitignore（v1.3.6 起两路径行为一致；commit-msg hook 首次运行还会兜底补写），该目录不进 git 提交，但用户 `ls -a` 可见。可安全删除（重新审计会重建）。改存储位置是 v1.4 架构决策，当前版本只披露。
 
-task/logs 和 think.md 以 Markdown 存储，可能含代码片段、API 响应、用户对话摘要。LLM 提炼反思时可能无意写入敏感信息。审计历史主链已静态加密（v1.3.8 交付，纯 TS AES-256-GCM），task/logs 与 think.md 仍为明文（加密接线排 v1.3.9，见 [ROADMAP](./ROADMAP.md) 和 [SECURITY](../SECURITY.md)）。
+task/logs 和 think.md 以 Markdown 存储，可能含代码片段、API 响应、用户对话摘要。LLM 提炼反思时可能无意写入敏感信息。审计历史主链已静态加密（v1.3.8 交付，纯 TS AES-256-GCM），task/logs 与 think.md 仍为明文（加密接线原声称排 v1.3.9 未兑现，已移排 v1.4.7，见 [ROADMAP](./ROADMAP.md) 和 [SECURITY](../SECURITY.md)）。
 - history.jsonl 存审计判定详情，A2/A9 已脱敏，其他规则 details 可能含代码片段或文件路径，敏感场景请配合外部加密卷
 - **v1.3.1 #44 披露：审计历史并发写入无文件锁**——appendFileSync 在 POSIX 上对小于 PIPE_BUF (4KB) 的写入是原子的，审计历史条目通常 < 1KB，单次写入安全。但多进程同时写入（daemon 文件监控 + Agent commit）可能导致行交错，产生损坏行触发 hash chain 完整性校验失败。概率极低（审计触发频率 < 1次/分钟），但损坏会导致校验失败。**v1.3.8 解决**——WAL 写在网关层，天然单 writer 模式（所有工具调用经网关串行写入，消除并发写入）。
 

diff --git a/docs/HANDBOOK.md b/docs/HANDBOOK.md
@@ -33,7 +33,7 @@
 | 想理解设计哲学 | [架构文档](./ARCHITECTURE.md) |
 | 想理解为什么这么做 | [设计哲学](./PHILOSOPHY.md)（**强烈推荐，读 5 分钟**） |
 
-> 📁 **项目文件导航**：根目录 6 个 .md 文件各司其职——[README.md](../README.md)（项目概览）、[README.en.md](../README.en.md)（英文概览）、[CHANGELOG.md](../CHANGELOG.md)（版本索引）、[SECURITY.md](../SECURITY.md)（安全策略）、[CONTRIBUTING.md](../CONTRIBUTING.md)（贡献指南）、[CODE_OF_CONDUCT.md](../CODE_OF_CONDUCT.md)（行为准则）。[ROADMAP.md](./ROADMAP.md)（路线图）和 [LIMITATIONS.md](./LIMITATIONS.md)（已知局限）在 `docs/` 下。
+> 📁 **项目文件导航**：根目录 8 个 .md 文件各司其职——[README.md](../README.md)（项目概览）、[README.en.md](../README.en.md)（英文概览）、[CHANGELOG.md](../CHANGELOG.md)（版本索引）、[SECURITY.md](../SECURITY.md)（安全策略）、[CONTRIBUTING.md](../CONTRIBUTING.md)（贡献指南）、[CODE_OF_CONDUCT.md](../CODE_OF_CONDUCT.md)（行为准则）、[AGENTS.md](../AGENTS.md)（Codex 适配薄挂载，四层加载链入口）、[GEMINI.md](../GEMINI.md)（Gemini CLI 适配薄挂载）。[ROADMAP.md](./ROADMAP.md)（路线图）和 [LIMITATIONS.md](./LIMITATIONS.md)（已知局限）在 `docs/` 下。
 
 ---
 
@@ -70,7 +70,7 @@
 - **🔌 v1.3.6 新增**：引擎接口外化完整版（模型层接入前置）——模型生成的 workflow / ontology 可经标准接口进入约束层：`workflow_submit`（含 merge_criteria/approver 审阅协议字段）/ `ontology_import` / `model_register`+`model_switch`+`model_unregister`（模型灰度全流程审计）/ `harness.wrap` 托管 SDK / `train_budget` 训练预算控制 / `define_acceptance`+`check_acceptance` 机器可判定验收（52→60 tools）；可靠性五件：FORGE worktree 隔离、双闸验证（postToolCall 副作用复查）、Agent 疲劳度检测、分级降级梯队、decisions.jsonl 完整版。详见 [v1.3.6 开发日志](./changelog/v1.3/v1.3.6.md)。
 - **🏰 v1.3.7 新增**：SubAgent 完整沙箱（虚拟文件系统 / 网络出站白名单 / 工具调用中介 / 虚拟 key / 独立进程 / 真·实时 A-B 双跑——企业 SubAgent 在隔离环境里干活，写入先进虚拟层审批后落盘）；场景驱动权限（身份→场景→风险→放行/deny/人审，每步留痕）；AgentShield 五类扫描（MCP 画像 / Hook 注入 / 配置审查 / 密钥增强 / Shadow AI 发现——揪出未注册的影子 agent）；行业 overlay 四套（金融/医疗/政务/AI 自动加载额外约束）；断路器行为监控（连败熔断 + 失控隔离）；ontology 生命周期（branch/trunk + 审阅门 + OKF 三件套）。详见 [v1.3.7 开发日志](./changelog/v1.3/v1.3.7.md)。
 - **🛡 v1.3.8 新增（交付⑥）**：托管 SDK `sandbox: true` 已启用——`harness.wrap(agent, { sandbox: true })` 一行接入沙箱三层（工具调用经 tool-gate 前置判定，未注册 ID fail-closed deny；文件写经虚拟层，未审批不落盘，`sandboxHandle.approveWrite()` 人审后原子落盘；网络出站经白名单网关，invoke 期间 net/dns 全拦）。可与 `approval: 'require-approval'` 组合——沙箱内副作用工具仍挂人审。详见 [v1.3.8 开发日志](./changelog/v1.3/v1.3.8.md)。
-- **🔍 v1.3.9 新增**：官方 AST 规则引擎（`sofagent-ruleset-ast`，ASI01 目标劫持 + ASI04 供应链 SBOM 语义检测）；meta-harness 多 harness 统一编排（策略强制下沉基础设施层，跨会话协作）；AI 工作明细数据层（`worklog` 按 Agent/Workflow/周 + 人工介入，`worklog_query` MCP）；API 分级治理（`@public`/`@internal` 1449 符号 + CI 门禁）；FORGE driver 切 DSH（显式后端选择 + CLI 桥接 + bash 全权限）；MLflow agent 评估（13 指标 + LLM-as-Judge）；Agentic Browser（4 工具 + 视觉降级）；跨平台适配器（Cursor/Codex/Gemini CLI）；tools/ 物理分子目录；ATTRIBUTION 归因引擎 + Dream Sandbox 沙盒审计（强制人审 merge + 路径穿越消毒）；>5MB diff 缝隙修复；FORGE driver 进程守护（daemon + watcher）。详见 [v1.3.9 开发日志](./changelog/v1.3/v1.3.9.md)。
+- **🔍 v1.3.9 新增**：官方 AST 规则引擎（`sofagent-ruleset-ast`，ASI01 目标劫持 + ASI04 供应链 SBOM 语义检测）；meta-harness 多 harness 统一编排（策略强制下沉基础设施层，跨会话协作）；AI 工作明细数据层（`worklog` 按 Agent/Workflow/周 + 人工介入，`worklog_query` MCP）；API 分级治理（`@public`/`@internal` 1440 符号 + CI 门禁）；FORGE driver 切 DSH（显式后端选择 + CLI 桥接 + bash 全权限）；MLflow agent 评估（13 指标 + LLM-as-Judge）；Agentic Browser（4 工具 + 视觉降级）；跨平台适配器（Cursor/Codex/Gemini CLI）；tools/ 物理分子目录；ATTRIBUTION 归因引擎 + Dream Sandbox 沙盒审计（强制人审 merge + 路径穿越消毒）；>5MB diff 缝隙修复；FORGE driver 进程守护（daemon + watcher）。详见 [v1.3.9 开发日志](./changelog/v1.3/v1.3.9.md)。
 
 **现在还干不了的事（已排期，暂无代码）**：本地推理小模型、云 VM 多租户执行面——路线见 [ROADMAP](./ROADMAP.md)。
 

diff --git a/CHANGELOG.md b/CHANGELOG.md
@@ -10,7 +10,7 @@
 > 未来版本规划见 [ROADMAP.md](./docs/ROADMAP.md)。
 > 未来版本的规划文件在 `docs/changelog/v1.3/` 下（标注"尚未实现"），不纳入本索引。
 
-- **v1.3.9** — 🔍 官方 AST 规则引擎（sofagent-ruleset-ast 含 ASI01/ASI04 · 8+2 规则同管线）+ 🧩 meta-harness 多 harness 统一编排（19 测试 + DSH 形态对齐）+ 📊 AI 工作明细数据层（worklog + worklog_query MCP）+ 🔬 API 分级 @public/@internal（1449 符号 + CI 门禁基线）+ ⚙ FORGE driver 切 DSH（显式后端选择 + CLI 桥接 + bash 全权限）+ 📈 MLflow agent 评估（13 指标 + LLM-as-Judge）+ 🌐 Agentic Browser（4 工具 + 视觉降级）+ 🧭 跨平台适配器（Cursor/Codex/Gemini CLI 薄挂载）+ 🗂 tools/ 物理分子目录 + 🏷 ATTRIBUTION 归因引擎（S318）+ 🏖 Dream Sandbox 沙盒审计（S319）+ 🩹 >5MB diff 缝隙修复（spill 落盘）+ 🔄 FORGE driver 进程守护（daemon + watcher）· 测试 2782→**2903**（+121）· 2026-08-21 · [开发日志](./docs/changelog/v1.3/v1.3.9.md)
+- **v1.3.9** — 🔍 官方 AST 规则引擎（sofagent-ruleset-ast 含 ASI01/ASI04 · 8+2 规则同管线）+ 🧩 meta-harness 多 harness 统一编排（19 测试 + DSH 形态对齐）+ 📊 AI 工作明细数据层（worklog + worklog_query MCP）+ 🔬 API 分级 @public/@internal（1440 符号 + CI 门禁基线）+ ⚙ FORGE driver 切 DSH（显式后端选择 + CLI 桥接 + bash 全权限）+ 📈 MLflow agent 评估（13 指标 + LLM-as-Judge）+ 🌐 Agentic Browser（4 工具 + 视觉降级）+ 🧭 跨平台适配器（Cursor/Codex/Gemini CLI 薄挂载）+ 🗂 tools/ 物理分子目录 + 🏷 ATTRIBUTION 归因引擎（S318）+ 🏖 Dream Sandbox 沙盒审计（S319）+ 🩹 >5MB diff 缝隙修复（spill 落盘）+ 🔄 FORGE driver 进程守护（daemon + watcher）· 测试 2782→**2903**（+121）· 2026-08-21 · [开发日志](./docs/changelog/v1.3/v1.3.9.md)
 - **v1.3.8** — 🛡 代理网关硬边界（唯一出入口 + 风险分级 + 权限单调守卫 + HITL 审批队列激活——`hitl_resolve` 空转闭环首场景）+ 🔐 数据静态加密（纯 TS AES-256-GCM `SOFAGENT-AGE-V1` 透明读写 + 密钥指纹强制备份）+ ⏸ Durable Execution L3（WAL 三件套：writer/recovery/undo 三档可逆 + 网关层集成 + 真 git 回滚实测）+ ⏰ 异步长任务自治（cron 三档糖 + 依赖图 + 死循环 replan 告警 + WAL 续跑钩子）+ 🔧 FORGE driver 保活三件套（pm2 托管 + resume 自动检测 + --check-alive 心跳探针）+ 🧩 SDK `sandbox:true` 启用（三层接线 + approval 组合）+ ✂ release-gate 瘦身（--judgment-only 判断层直启 + F 循环 FAIL 即停 + 分片抽查化：30.7万→≤12万 token）+ 📊 fresh-eyes 成本重构（usage.jsonl 计量 + B 侧复核模式 + 单次草稿工具 · 16 视角零删减）+ 🩹 快照写路径加固（revert 原子化两阶段 + 原子替换）· 测试 2655→**2782**（bugfix +17 · 开发 +110，链路 2655→2672→2782）· 2026-08-20 · [开发日志](./docs/changelog/v1.3/v1.3.8.md)
 - **v1.3.7** — 🏰 SubAgent 完整沙箱（虚拟 FS/网络白名单/工具中介/虚拟 key/独立进程/A-B 双跑——v1.3.8 `sandbox:true` 前置）+ 🔐 场景驱动权限（身份→场景→风险→放行/deny/人审 · fail-closed · 守卫先于事件分发）+ 🛡 AgentShield 五类扫描（MCP 画像/Hook 注入/配置审查/密钥增强/Shadow AI 发现 · 零 LLM 自评）+ 🏥 行业 overlay 四套（fintech/medical/government/ai · context.md `industry:` 自动加载）+ ⚡ 断路器行为监控（ASI08 熔断 + ASI10 隔离 · 与沙箱联动）+ 🌳 ontology 生命周期（lifecycle branch/trunk + 审阅门 migrateToTrunk + OKF 三件套 type/status/stale_after/verified）+ ⚙ FORGE 审查循环自适应并发（三级来源 + 预算表 + OOM 熔断降级）+ 🔌 memory-sync 路径通用化（TencentDB 开箱即用但非唯一）+ 26 项独立审查 bugfix（verify-commit 洗白链/安装链断链/门禁三态等 4 P0 根治 + 红队四项防御增强：verify-chain 追加伪造判篡改 + A2 二进制 WARN + A9 伪造签名 + 验签 fail-closed）· 2026-08-18 · [开发日志](./docs/changelog/v1.3/v1.3.7.md)
 - **v1.3.6** — 🔌 引擎接口外化完整版（模型层接入前置）：📥 三个数据接口（Workflow 标准格式 + 运行容器 + merge_criteria/approver 审阅协议字段 / Ontology 标准 Schema 注册 D1-D5 留痕可回滚 / 模型注册 + 灰度切换全流程审计 + 强制人审）+ 🧩 SubAgent 托管 SDK（`harness.wrap` 双形态兼容）+ 🏋 训练协议三约定 + 预算控制 + 🧭 路由决策可解释性（EndpointProfile + route-policy + routeReason 结构化理由链）+ ✅ 机器可判定验收（define_acceptance / check_acceptance）+ 🛡 可靠性五件（FORGE worktree 隔离 / 双闸验证 postToolCall / Agent 疲劳度检测 / 分级降级梯队 / decisions.jsonl 五分类完整版）+ 🏪 market→commons 更名 + 🌳 仓库森林叙事 · **MCP 52→60 tools（8 个新 tool 全登记）** · 2026-08-18 · [开发日志](./docs/changelog/v1.3/v1.3.6.md)

diff --git a/docs/ARCHITECTURE.md b/docs/ARCHITECTURE.md
@@ -162,6 +162,22 @@ graph TB
 
 > 💬 **交互范式**：sofagent 没有图形界面。所有能力通过 MCP 协议暴露，用户通过 Agent 对话（LUI）操作——说一句话，它做完告诉你结果在哪。这是架构的根本设计约束：不存在「仅 CLI 可用」或「需要打开页面」的能力。详见 [设计哲学](./PHILOSOPHY.md)。
 
+### 约束层七维度（Agent 的构成面）
+
+Agent = **模型 + 上下文 + 工具 + 状态 + 执行控制 + 权限 + 可观测性** 七个维度。约束层四种能力（注入·审计·回溯·进化）各自覆盖其中若干维度，不构成独立架构层——七维度是「Agent 由什么构成」的分析框架，四种能力是「约束层对 Agent 做什么」的生命周期框架，两者正交。
+
+| 维度 | 含义 | 主要受约束层哪阶段覆盖 |
+|------|------|----------------------|
+| 模型 | 推理内核 | 注入（系统约束）+ 进化（模型选择反思） |
+| 上下文 | 注入的知识 / 记忆 / 本体 | 注入（L1-L4 加载链） |
+| 工具 | Agent 可调用的外部能力 | 注入（工具边界红线）+ 审计（越权调用） |
+| 状态 | 运行中的中间态 | 审计（变更留痕）+ 回溯（快照） |
+| 执行控制 | 编排 / DAG / HITL | 注入（流程约束）+ 审计（异常路径） |
+| 权限 | 能碰什么资源 | 审计（A 类越权规则）+ 回溯（最小权限） |
+| 可观测性 | 日志 / 追溯 / 签名 | 审计（硬证据）+ 进化（趋势反思） |
+
+> 维度构成以 [WIKI 术语表](./WIKI.md) 本行为准；四种能力各自的维度分工详见 [设计哲学 §一·四件事的分工](./PHILOSOPHY.md#四件事的分工mcp--skills--ontology--harness)。
+
 ---
 
 ## 能力与状态总览
@@ -185,6 +201,20 @@ graph TB
 | skillopt | Skill 优化：复用 audit 规则做安全审查 + 集成优化 + 回填 | ✅ 已实现 |
 | think | 思考链分析：基于 diff + 审计结果自动生成 think.md 反思条目（append-only） | ✅ 已实现（⚠ 仅 MCP/CLI 路径触发，git hook 路径不自动生成） |
 | load-chain | 加载链 Hook 包 `@sofagent/load-chain`：Agent 平台（OpenClaw / WorkBuddy 等）hook 注入四层约束（v1.2.0 DP-4（设计原则 4）提升为正式 workspace 包） | ✅ 已实现 |
+
+### API 分级边界决策（@public / @internal）
+
+v1.3.9 起对所有 workspace 包的入口 export 做显式分级，CI 门禁（[tools/check/public-api.mjs](./../tools/check/public-api.mjs)）拦截未 bump 版本的 `@public` 破坏性变更。
+
+**为什么是这个粒度**：
+- 基线覆盖 **12 个含 test script 的包**（hooks 包 `load-chain` 为纯 hook 安装器，无 `@public` 符号，不计入分级基线）——当前 12 包共 **1440 个 @public 符号**（以 `public-api.mjs` AST 解析为权威口径，非 grep 计数）。
+- 未标记的导出**默认视为 @public**（保守默认：宁可多承诺不可漏承诺），`@internal` 需显式标注。
+
+**为什么 @internal 破坏性变更不影响适配层**：
+- 跨平台适配器（Cursor / Codex / Gemini CLI 薄挂载）与 `@sofagent/audit` 等外部依赖方**只许 import `@public` 层**——`@internal` 是引擎内部实现细节，破坏性变更不触发 semver 约束。
+- 若某符号从 `@internal` 升为 `@public`，等同新增公开 API，需 bump 版本 + CHANGELOG 记录（门禁自动拦截漏标场景）。
+
+> 符号数声称与 baseline 的自动校验见 `public-api.mjs` 的「文档声称符号数校验」段——文档写 1440 必须与 baseline 实际数一致，否则门禁 FAIL（根治历史 1449 漂移类问题）。
 
 ### 对外核心能力（FDE Agent 给用户什么）
 

diff --git a/docs/changelog/v1.3/v1.3.9.md b/docs/changelog/v1.3/v1.3.9.md
@@ -12,7 +12,7 @@
 | 一 | 官方 AST 规则引擎（sofagent-ruleset-ast）含 ASI01/ASI04 | P0 | ✅ 8+2 规则 + v1.2.9 插件同管线 |
 | 二 | meta-harness 多 harness 统一编排 | P0 | ✅ 19 测试 + DSH 形态对齐 |
 | 三 | AI 工作明细数据层（worklog） | P0 | ✅ 11 测试 + worklog_query MCP |
-| 四 | API 分级 @public/@internal + CI 门禁 | P0 | ✅ 1449 符号分级 + 基线拦截 |
+| 四 | API 分级 @public/@internal + CI 门禁 | P0 | ✅ 1440 符号分级 + 基线拦截 |
 | 五 | FORGE driver 切 DSH | P0 | ✅ 显式后端选择 + 3 门禁工具化 |
 | 六 | MLflow agent 评估集成 | P1 | ✅ 13 指标 + LLM-as-Judge |
 | 七 | Agentic Browser / Playwright | P1 | ✅ 4 工具 + 视觉降级 |
@@ -199,7 +199,7 @@ v1.3.7 给单个 SubAgent 沙箱，本版升级为多 harness 统一编排——
 
 ### 验收
 
-- [x] 所有 12 个包 index.ts 双层 export 划分（@public 1449 符号 / @internal 子集明确标注）
+- [x] 所有 12 个包 index.ts 双层 export 划分（@public 1440 符号 / @internal 子集明确标注）
 - [x] @public 子集可被外部依赖锁定（**实测**：临时项目 npm install workspace 引擎 rules+core，import @public 符号跑通——AstRuleEngine/RulesEngine/parseDiff 等；AST 引擎经 @public 子集可用）
 - [x] pr-check.yml public-api job 能阻断未 bump 的提交（**实测拦截**：新增 export 不 bump version → 门禁 exit 1）
 - [x] AST 规则引擎可复用做 API 语义解析（public-api.mjs 走 extractExports）
@@ -627,7 +627,7 @@ v1.3.9 文档批新增：meta-harness 设计 19/MLflow 文档 13/agentic-browser
 - `worklog`：按 Agent/Workflow/周 + 人工介入记录——复用审计 + decision-log + LLM Trace，零新数据；`worklog_query` MCP（60→61 tools）
 
 ### 🔬 API 分级治理
-- `@public`/`@internal` 显式分级（1449 符号）+ CI 门禁基线——@internal 破坏性变更永不波及适配层
+- `@public`/`@internal` 显式分级（1440 符号）+ CI 门禁基线——@internal 破坏性变更永不波及适配层
 
 ### ⚙ FORGE driver 切 DSH
 - 执行后端可切换：显式后端选择 + DSH CLI 桥接 + bash 全权限（`SOFAGENT_FORCE_DSH`）——从 LangGraph 到 DSH 一键切换

diff --git a/CONTRIBUTING.md b/CONTRIBUTING.md
@@ -126,7 +126,7 @@ git clone https://github.com/KongFangXun/sofagent.git
 cd sofagent && bash install.sh && bash engine/scripts/verify.sh
 ```
 
-发版：`docs/changelog/vX.Y.md` 写日志 → `CHANGELOG.md` 加索引 → `tools/release/bump-version.sh` 升级版本号 → `cp -r sofagent/ ~/.workbuddy/skills/sofagent/` → `git tag vX.Y && git push` → `gh release create vX.Y`
+发版：按 [docs/changelog/releasing.md](./docs/changelog/releasing.md) 十二阶段 SOP 执行——阶段一~四（审查/开发/测试）→ 阶段五~八（审查体系/文档收尾）→ 阶段九~十（工具健康/确认关口）→ 阶段十一（发布：npm 13 包 + ClawHub/SkillHub 双分发 + tag + Release）→ 阶段十二（发布后收尾）。简版：`docs/changelog/vX.Y/vX.Y.Z.md` 写日志 → `CHANGELOG.md` 加索引 → `tools/release/bump-version.sh` 升级版本号 → `./tools/pre-push-check.sh` 全绿 → `git tag vX.Y && git push` → `gh release create vX.Y`。
 
 > 📋 **changelog 写作规范（v1.2.9 起）**：changelog 是对外公开文档，**不写人名、内部私有路径、内部工单/审查代号**。
 > - ❌ 不写开发成员名字或角色代号（如"某某拍板""供某某实现"）
